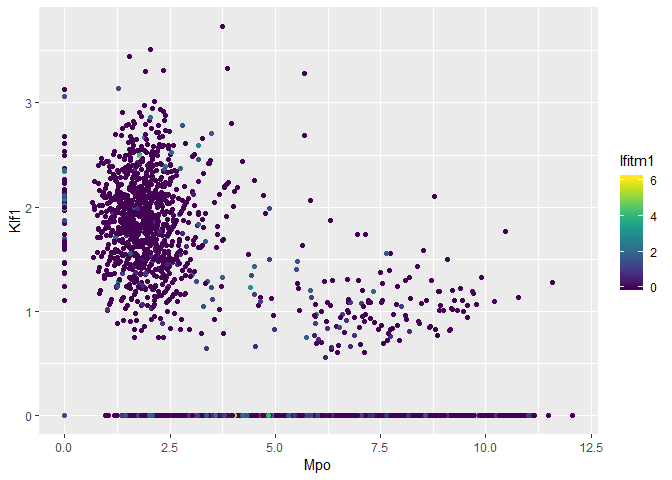
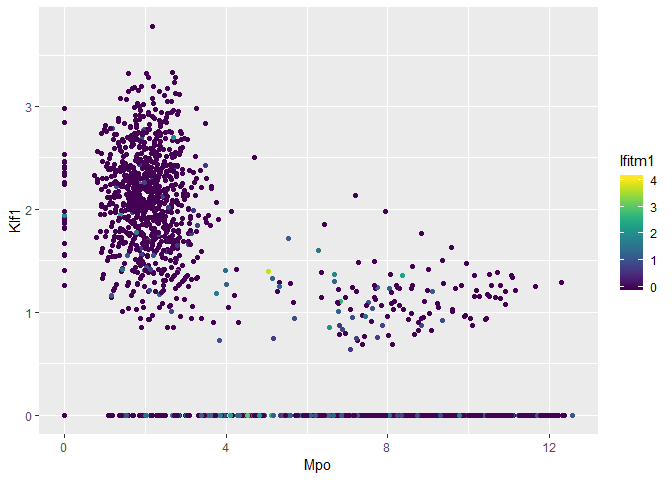
update tutorial

diff --git a/R/inst/examples/bonemarrow_tutorial.md b/R/inst/examples/bonemarrow_tutorial.md
@@ -123,6 +123,25 @@ bmmsc[1:5,1:10]
     ## #   `0610009B22Rik` <int>, `0610009D07Rik` <int>, `0610009O20Rik` <int>,
     ## #   `0610010B08Rik;Gm14434;Gm14308` <int>
 
+First, we need to remove lowly expressed genes and cells with small
+library size.
+
+``` r
+# keep genes expressed in at least 10 cells
+keep_cols <- colSums(bmmsc > 0) > 10
+bmmsc <- bmmsc[,keep_cols]
+# look at the distribution of library sizes
+hist(rowSums(bmmsc))
+```
+
+![](bonemarrow_tutorial_files/figure-gfm/unnamed-chunk-1-1.png)<!-- -->
+
+``` r
+# keep cells with at least 2000 UMIs
+keep_rows <- rowSums(bmmsc) > 2000
+bmmsc <- bmmsc[keep_rows,]
+```
+
 We should library size normalize and transform the data prior to MAGIC.
 Many people use a log transform, which requires adding a “pseudocount”
 to avoid log(0). We square root instead, which has a similar form but
@@ -135,16 +154,12 @@ bmmsc <- sqrt(bmmsc)
 
 ### Running MAGIC
 
-Running MAGIC is as simple as running the `magic` function. We use
-`rescale_percent=99` to make the output range comparable to the input,
-but this is not strictly necessary for downstream analysis.
+Running MAGIC is as simple as running the `magic` function.
 
 ``` r
 # run MAGIC
-bmmsc_MAGIC <- magic(bmmsc, genes=c("Mpo", "Klf1", "Ifitm1"), rescale_percent=99)
+bmmsc_MAGIC <- magic(bmmsc, genes=c("Mpo", "Klf1", "Ifitm1"))
 ```
-
-### Results
 
 We can plot the data before and after MAGIC to visualize the results.
 
@@ -171,44 +186,57 @@ ggplot(bmmsc_MAGIC) +
 
 ![](bonemarrow_tutorial_files/figure-gfm/plot_magic-1.png)<!-- -->
 
-``` r
-ggsave('BMMSC_data_R_after_magic.png', width=5, height=5)
-```
-
 As you can see, the gene-gene relationships are much clearer after
 MAGIC. These relationships also match the biological progression we
 expect to see - Ifitm1 is a stem cell marker, Klf1 is an erythroid
 marker, and Mpo is a myeloid marker.
 
+The data is a little too smooth - we can decrease `t` from the automatic
+value to reduce the amount of diffusion. We pass the original result to
+the argument `init` to avoid recomputing intermediate
+steps.
+
+``` r
+bmmsc_MAGIC <- magic(bmmsc, genes=c("Mpo", "Klf1", "Ifitm1"), t=8, init=bmmsc_MAGIC)
+ggplot(bmmsc_MAGIC) +
+  geom_point(aes(Mpo, Klf1, colour=Ifitm1)) + 
+  scale_colour_viridis()
+```
+
+![](bonemarrow_tutorial_files/figure-gfm/unnamed-chunk-3-1.png)<!-- -->
+
+``` r
+ggsave('BMMSC_data_R_after_magic.png', width=5, height=5)
+```
+
 We can look at the entire smoothed matrix with `genes='all_genes'`,
 passing the original result to the argument `init` to avoid recomputing
 intermediate steps. Note that this matrix may be large and could take up
-a lot of
-memory.
+a lot of memory.
 
 ``` r
-bmmsc_MAGIC <- magic(bmmsc, genes="all_genes", rescale_percent=99, init=bmmsc_MAGIC)
+bmmsc_MAGIC <- magic(bmmsc, genes="all_genes", init=bmmsc_MAGIC)
 as.data.frame(bmmsc_MAGIC)[1:5, 1:10]
 ```
 
     ##   0610007C21Rik;Apr3 0610007L01Rik 0610007P08Rik;Rad26l 0610007P14Rik
-    ## 1           1.860502      1.690168            1.1373480      1.905561
-    ## 2           2.109082      2.176668            0.9942011      2.040323
-    ## 3           2.156509      2.015408            2.0982907      2.276530
-    ## 4           2.137702      2.262988            1.0380500      2.076257
-    ## 5           2.066830      1.971425            1.9921411      2.203174
-    ##   0610007P22Rik 0610008F07Rik 0610009B22Rik 0610009D07Rik 0610009O20Rik
-    ## 1      1.262215             0      1.416935     0.9999595      1.498086
-    ## 2      1.278548             0      1.295572     1.0363637      1.207875
-    ## 3      1.966309             0      1.844326     1.7560429      2.438793
-    ## 4      1.302293             0      1.320307     1.0774056      1.214317
-    ## 5      1.891680             0      1.723578     1.5698489      2.368597
-    ##   0610010B08Rik;Gm14434;Gm14308
-    ## 1                             0
-    ## 2                             0
-    ## 3                             0
-    ## 4                             0
-    ## 5                             0
+    ## 1          0.1751866     0.5540753           0.06156801     0.4074682
+    ## 2          0.1546742     0.4319843           0.11617584     0.4282041
+    ## 3          0.1687694     0.5702529           0.06386686     0.4172185
+    ## 4          0.1494420     0.4273008           0.11111974     0.4211829
+    ## 5          0.1708924     0.5635437           0.06133188     0.4162455
+    ##   0610007P22Rik 0610009B22Rik 0610009D07Rik 0610009O20Rik
+    ## 1    0.03024783    0.05645037    0.07368982     0.1979285
+    ## 2    0.03774436    0.08081385    0.12355306     0.3909738
+    ## 3    0.02894124    0.05833093    0.07277939     0.2002494
+    ## 4    0.03579443    0.07634111    0.11043661     0.3862620
+    ## 5    0.02948439    0.05587387    0.07075943     0.2007730
+    ##   0610010F05Rik;mKIAA1841;Kiaa1841 0610010K14Rik;Rnasek
+    ## 1                       0.03743578             1.160120
+    ## 2                       0.03603500             1.090403
+    ## 3                       0.03885539             1.150197
+    ## 4                       0.03315765             1.096635
+    ## 5                       0.03766863             1.155895
 
 ### Visualizing MAGIC values on PHATE
 
